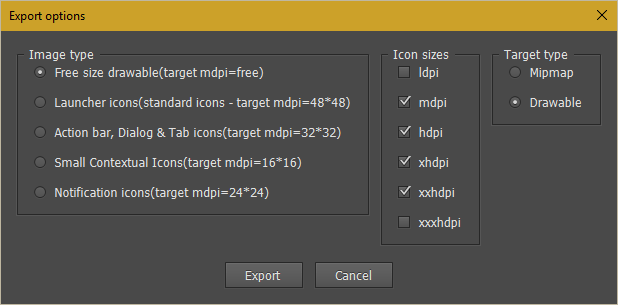
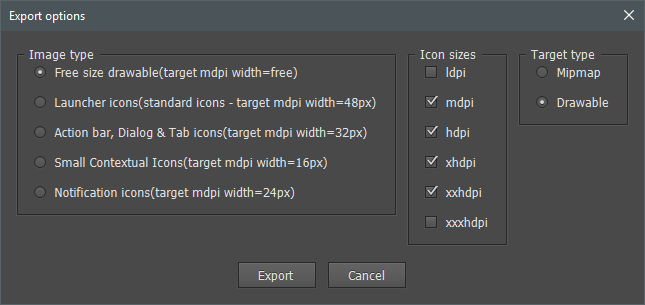
Fixed two bugs + update readme&shot
Fixed "Free size drawable" selection.
Fixed target height for none-square drawables.

diff --git a/IllustratorToAndroidExporterScript.jsx b/IllustratorToAndroidExporterScript.jsx
@@ -4,23 +4,23 @@
 
 var targetImageTypes = [
 	{
-        name: "Free size drawable(target mdpi=free)",
-        mdpi: 0
+        name: "Free size drawable(target mdpi width=free)",
+        mdpi: 1
     },
 	{
-        name: "Launcher icons(standard icons - target mdpi=48*48)",
+        name: "Launcher icons(standard icons - target mdpi width=48px)",
         mdpi: 48
     },
     {
-        name: "Action bar, Dialog & Tab icons(target mdpi=32*32)",
+        name: "Action bar, Dialog & Tab icons(target mdpi width=32px)",
         mdpi: 32
     },
     {
-        name: "Small Contextual Icons(target mdpi=16*16)",
+        name: "Small Contextual Icons(target mdpi width=16px)",
         mdpi: 16
     },
     {
-        name: "Notification icons(target mdpi=24*24)",
+        name: "Notification icons(target mdpi width=24px)",
         mdpi: 24
     }
 ];
@@ -65,7 +65,6 @@ var targetAddress = [
 
 var document = app.activeDocument;
 var width = document.width;
-var height = document.height;
 var targetFolder;
 
 var selectedImageTypes = {};
@@ -132,16 +131,19 @@ function exportToFile(multiplayer, mdpi, suffix, resAddress) {
 		var file = new File(target.fsName + "/" + document.layers[i].name + ".png");
 		
 		var imageBaseRateWidth = 1;
-		var imageBaseRateHeight = 1;
 
-		if (mdpi!=0){
+		if (mdpi>1){
 			imageBaseRateWidth = mdpi/width;
-			imageBaseRateHeight = mdpi/height;
 		}
 		
 		var extras = new ExportOptionsPNG24();
-		extras.horizontalScale = multiplayer*imageBaseRateWidth*100;
-		extras.verticalScale = multiplayer*imageBaseRateHeight*100;
+		if (mdpi>1) {
+			extras.horizontalScale = multiplayer*imageBaseRateWidth*100;
+			extras.verticalScale = multiplayer*imageBaseRateWidth*100;
+		} else {
+			extras.horizontalScale = multiplayer*width;
+			extras.verticalScale = multiplayer*width;
+		}
 		extras.artBoardClipping = true;
 		extras.transparency = true;
 		extras.antiAliasing = true;

diff --git a/README.md b/README.md
@@ -1,4 +1,4 @@
-Illustrator To Android Exporter Script 1.1
+Illustrator To Android Exporter Script 1.2
 =================================
 
 A script for exporting assets from illustrator to android mipmap/drawable resources.<br>
@@ -14,11 +14,11 @@ Options
 Image type
 ```
 	Image type
-	├─── Free size drawable(target mdpi=free)
-	├─── Launcher icons(standard icons - target mdpi=48*48)
-	├─── Action bar, Dialog & Tab icons(target mdpi=32*32)
-	├─── Small Contextual Icons(target mdpi=16*16)
-	└─── Notification icons(target mdpi=24*24)
+	├─── Free size drawable(target mdpi width=free)
+	├─── Launcher icons(standard icons - target mdpi width=48px)
+	├─── Action bar, Dialog & Tab icons(target mdpi width=32px)
+	├─── Small Contextual Icons(target mdpi width=16px)
+	└─── Notification icons(target mdpi width=24px)
 ```
 
 Icon sizes
